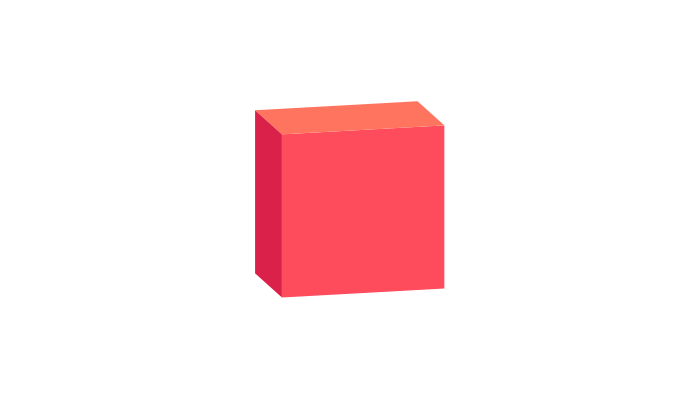
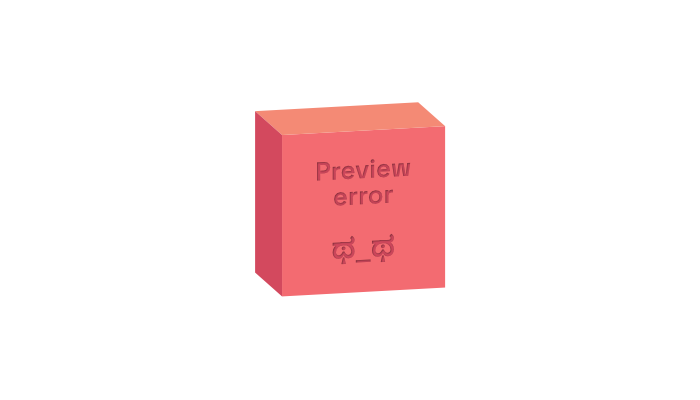
preview images: detailed errors (#375)

Changed region(s): [[0.36, 0.27, 0.66, 0.75], [0.45, 0.24, 0.6, 0.27]]

diff --git a/packages/server/modules/previews/index.js b/packages/server/modules/previews/index.js
@@ -33,7 +33,7 @@ exports.init = ( app, options ) => {
     // Check if objectId is valid
     const dbObj = await getObject( { streamId, objectId } )
     if ( !dbObj ) {
-      return { type: 'file', file: `${appRoot}/modules/previews/assets/preview_error.png` }
+      return { type: 'file', file: `${appRoot}/modules/previews/assets/preview_404.png` }
     }
 
     // Get existing preview metadata
@@ -112,7 +112,7 @@ exports.init = ( app, options ) => {
     let { hasPermissions, httpErrorCode } = await checkStreamPermissions( req )
     if ( !hasPermissions ) {
       // return res.status( httpErrorCode ).end()
-      return res.sendFile( `${appRoot}/modules/previews/assets/preview_error.png` )
+      return res.sendFile( `${appRoot}/modules/previews/assets/preview_${httpErrorCode}.png` )
     }
 
     return sendObjectPreview( req, res, req.params.streamId, req.params.objectId, req.params.angle )
@@ -122,7 +122,7 @@ exports.init = ( app, options ) => {
     let { hasPermissions, httpErrorCode } = await checkStreamPermissions( req )
     if ( !hasPermissions ) {
       // return res.status( httpErrorCode ).end()
-      return res.sendFile( `${appRoot}/modules/previews/assets/preview_error.png` )
+      return res.sendFile( `${appRoot}/modules/previews/assets/preview_${httpErrorCode}.png` )
     }
     
     let { commits } = await getCommitsByStreamId( { streamId: req.params.streamId, limit: 1, ignoreGlobalsBranch: true } )
@@ -138,7 +138,7 @@ exports.init = ( app, options ) => {
     let { hasPermissions, httpErrorCode } = await checkStreamPermissions( req )
     if ( !hasPermissions ) {
       // return res.status( httpErrorCode ).end()
-      return res.sendFile( `${appRoot}/modules/previews/assets/preview_error.png` )
+      return res.sendFile( `${appRoot}/modules/previews/assets/preview_${httpErrorCode}.png` )
     }
 
     let commitsObj
@@ -160,7 +160,7 @@ exports.init = ( app, options ) => {
     let { hasPermissions, httpErrorCode } = await checkStreamPermissions( req )
     if ( !hasPermissions ) {
       // return res.status( httpErrorCode ).end()
-      return res.sendFile( `${appRoot}/modules/previews/assets/preview_error.png` )
+      return res.sendFile( `${appRoot}/modules/previews/assets/preview_${httpErrorCode}.png` )
     }
 
     let commit = await getCommitById( { id: req.params.commitId } )
@@ -175,12 +175,11 @@ exports.init = ( app, options ) => {
     let { hasPermissions, httpErrorCode } = await checkStreamPermissions( req )
     if ( !hasPermissions ) {
       // return res.status( httpErrorCode ).end()
-      return res.sendFile( `${appRoot}/modules/previews/assets/preview_error.png` )
+      return res.sendFile( `${appRoot}/modules/previews/assets/preview_${httpErrorCode}.png` )
     }
 
     return sendObjectPreview( req, res, req.params.streamId, req.params.objectId, DEFAULT_ANGLE )
   } )
-
 }
 
 exports.finalize = () => {}
